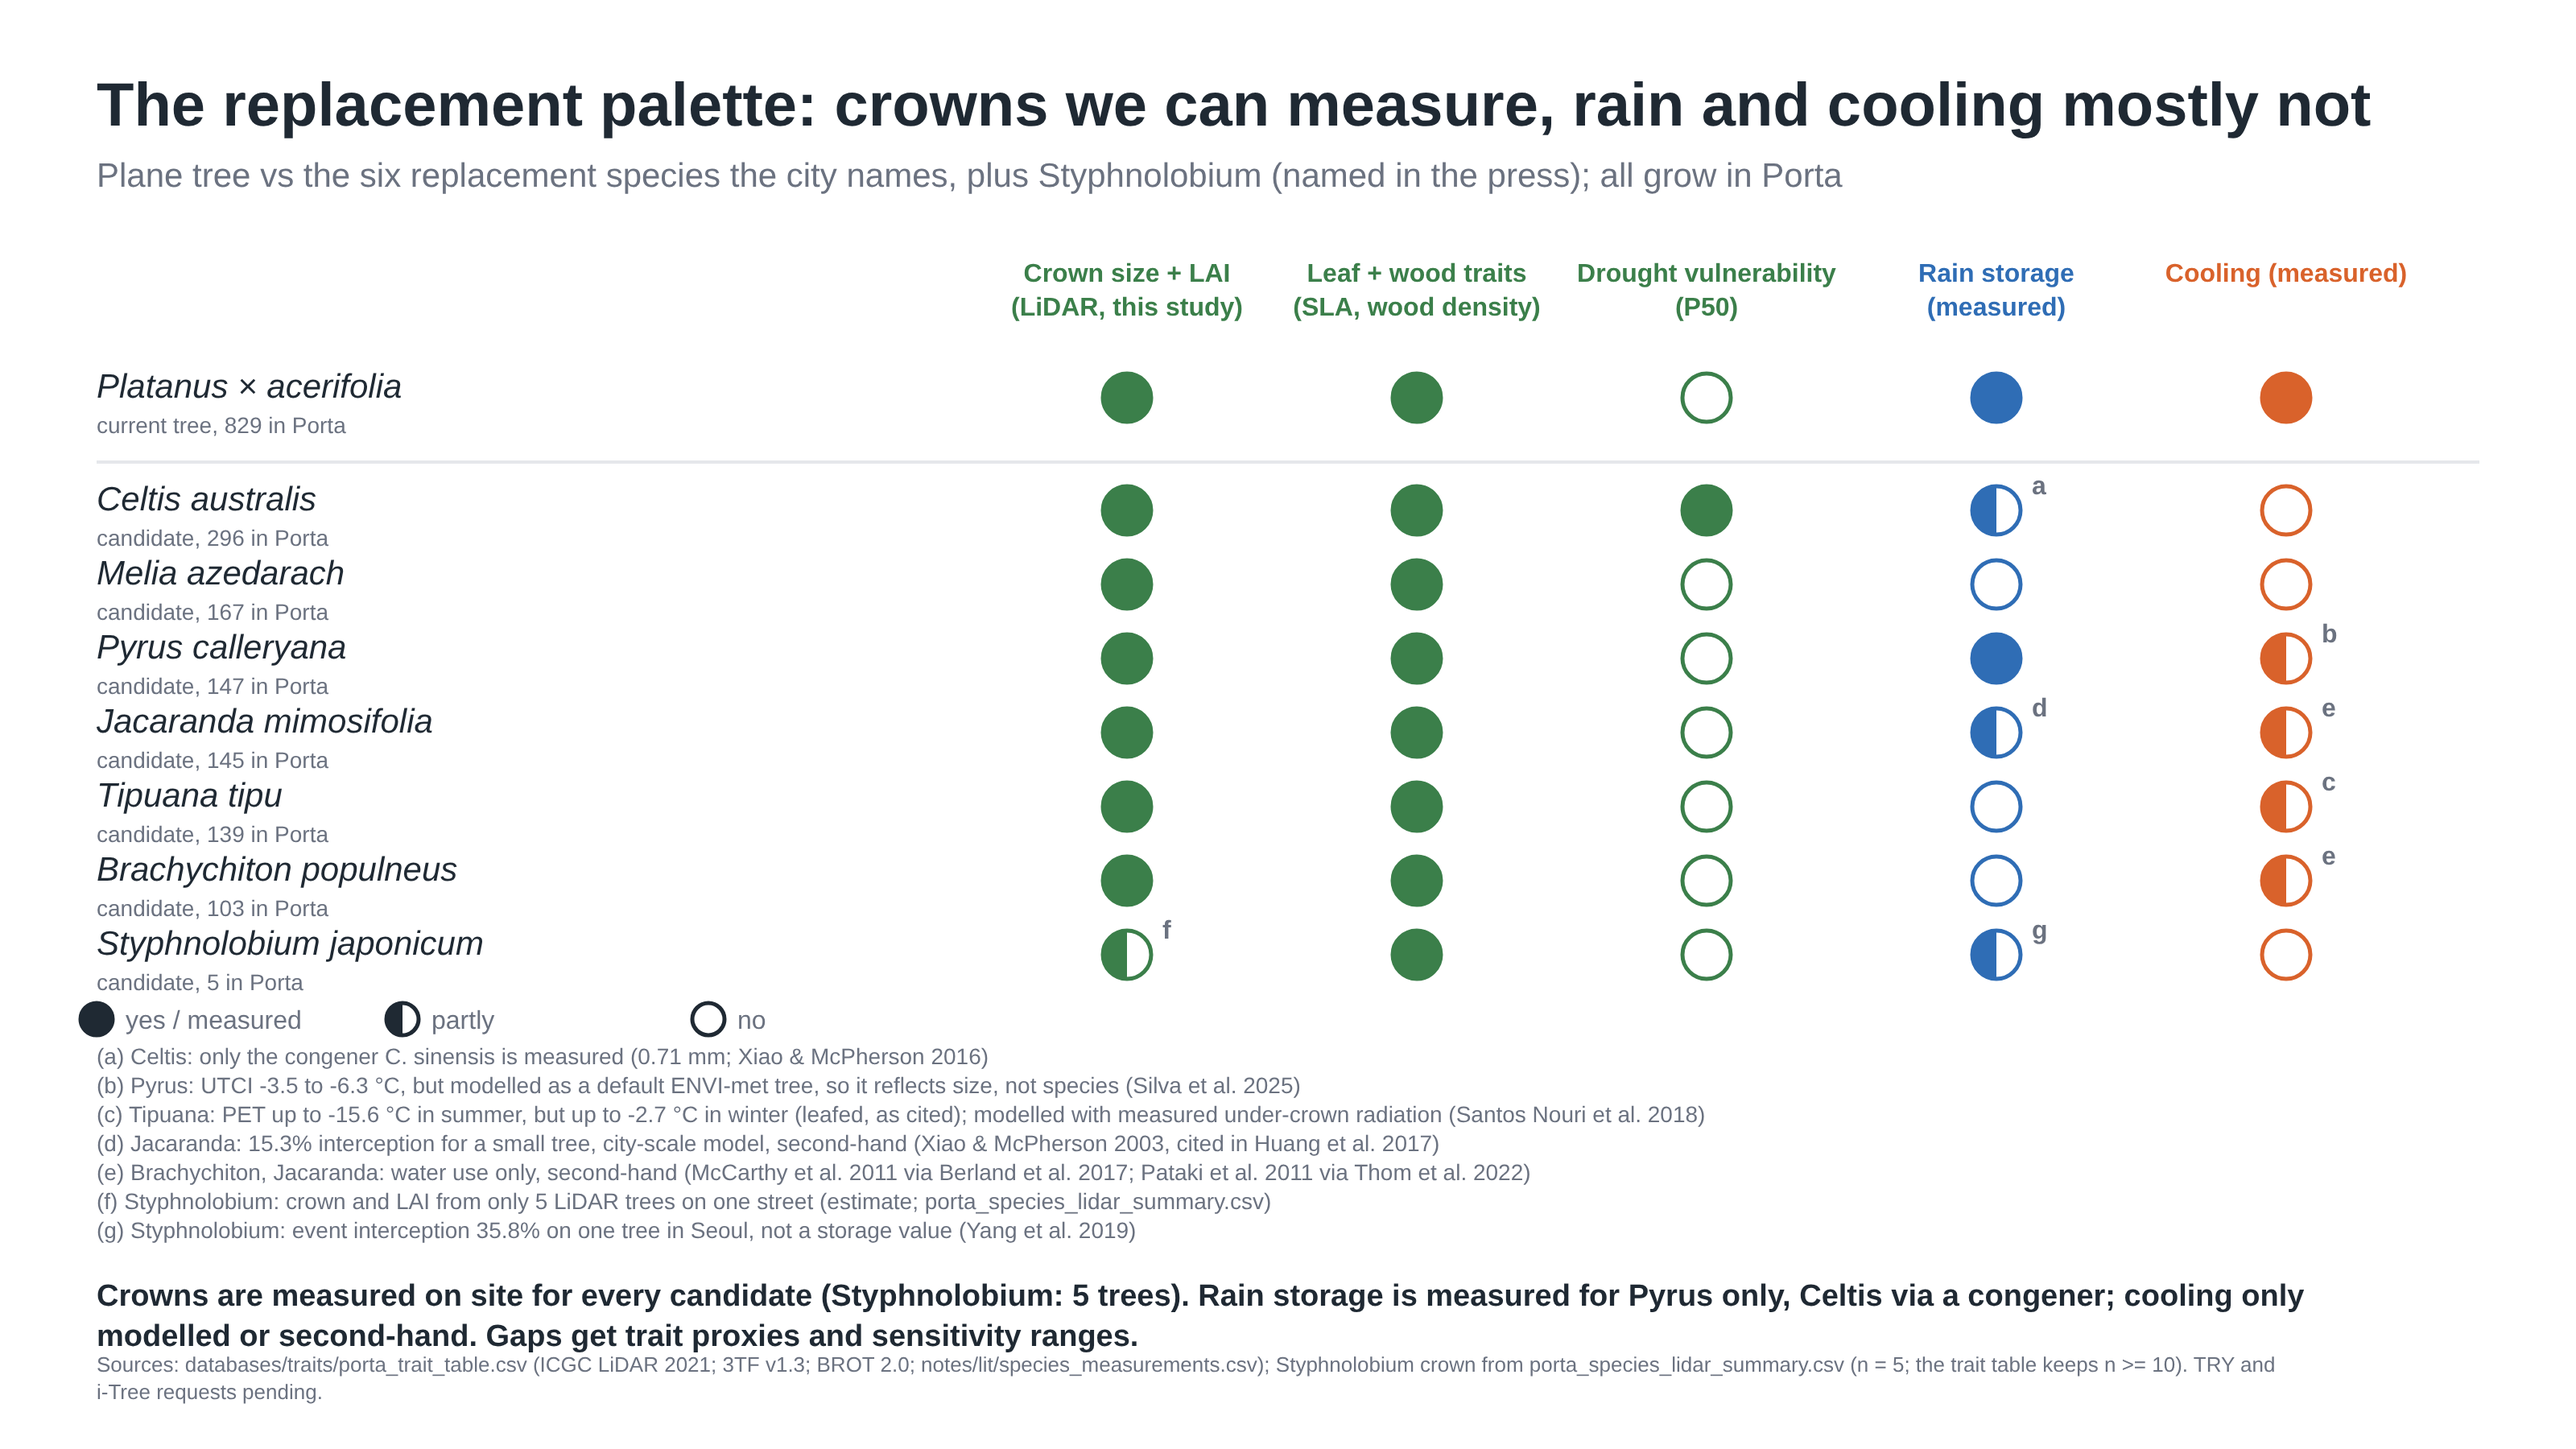
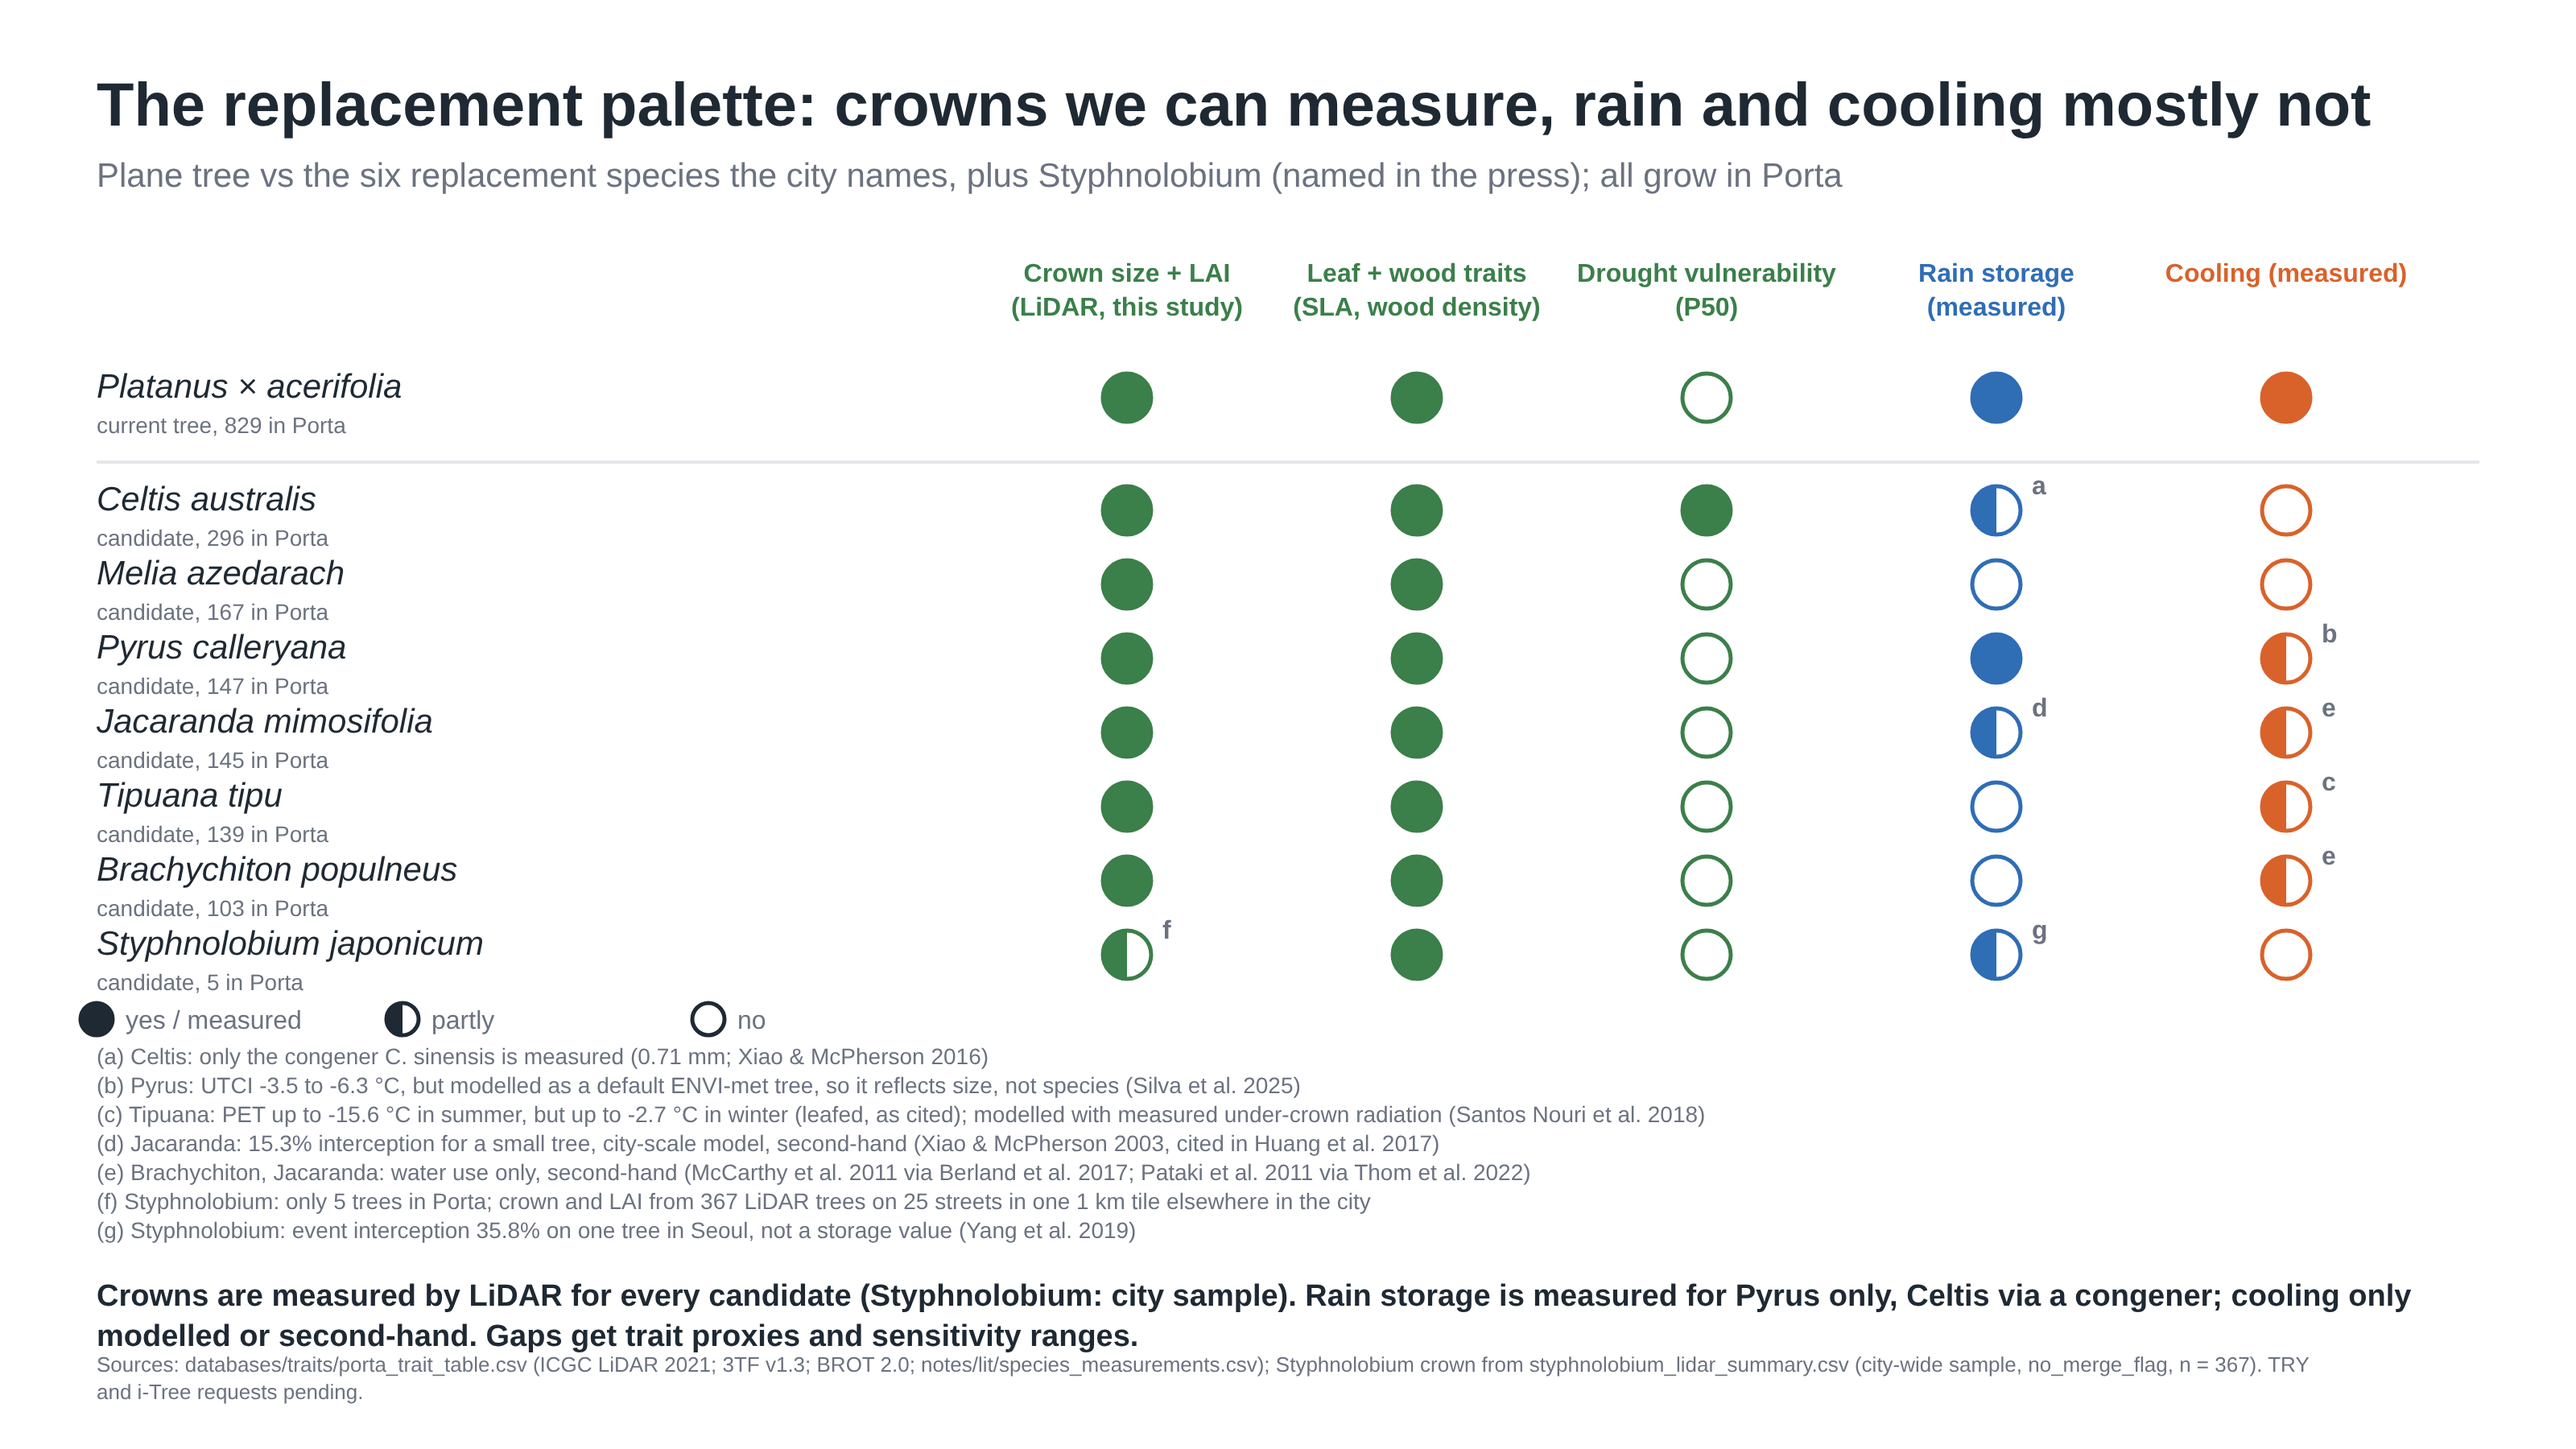
Figure 05: Styphnolobium crown and LAI from the city-wide LiDAR sample (#42)
Claude-Session: https://claude.ai/code/session_01FJALRzK7a9EK18VJAdk96B

diff --git a/scripts/make_infographics.py b/scripts/make_infographics.py
@@ -272,7 +272,7 @@ def fig_palette():
              ("Jacaranda mimosifolia", 3): ("d", "Jacaranda: 15.3% interception for a small tree, city-scale model, second-hand (Xiao & McPherson 2003, cited in Huang et al. 2017)"),
              ("Brachychiton populneus", 4): ("e", "Brachychiton, Jacaranda: water use only, second-hand (McCarthy et al. 2011 via Berland et al. 2017; Pataki et al. 2011 via Thom et al. 2022)"),
              ("Jacaranda mimosifolia", 4): ("e", "Brachychiton, Jacaranda: water use only, second-hand (McCarthy et al. 2011 via Berland et al. 2017; Pataki et al. 2011 via Thom et al. 2022)"),
-             ("Styphnolobium japonicum", 0): ("f", "Styphnolobium: crown and LAI from only 5 LiDAR trees on one street (estimate; porta_species_lidar_summary.csv)"),
+             ("Styphnolobium japonicum", 0): ("f", "Styphnolobium: only 5 trees in Porta; crown and LAI from 367 LiDAR trees on 25 streets in one 1 km tile elsewhere in the city"),
              ("Styphnolobium japonicum", 3): ("g", "Styphnolobium: event interception 35.8% on one tree in Seoul, not a storage value (Yang et al. 2019)")}
     cx = [700, 880, 1060, 1240, 1420]
     b = "".join(para(x, 175, c, 170, 16, weight="bold", anchor="middle", fill=col)[0] for x, (c, col, _) in zip(cx, cols))
@@ -290,12 +290,12 @@ def fig_palette():
         y += 46 if not cur else 70
     b += legend_balls(60, y + 16)
     b += "".join(t(60, y + 44 + 18 * j, f"({k}) {v}", 14, MUTED) for j, (k, v) in enumerate(dict.fromkeys(notes.values())))
-    tk, _ = para(60, y + 68 + 18 * len(set(notes.values())), "Crowns are measured on site for every candidate (Styphnolobium: 5 trees). Rain storage is measured for Pyrus only, "
+    tk, _ = para(60, y + 68 + 18 * len(set(notes.values())), "Crowns are measured by LiDAR for every candidate (Styphnolobium: city sample). Rain storage is measured for Pyrus only, "
                               "Celtis via a congener; cooling only modelled or second-hand. Gaps get trait proxies and sensitivity ranges.", 1480, 19, weight="bold")
     save("05_palette_data_gap", "The replacement palette: crowns we can measure, rain and cooling mostly not",
          "Plane tree vs the six replacement species the city names, plus Styphnolobium (named in the press); all grow in Porta", b + tk,
          "databases/traits/porta_trait_table.csv (ICGC LiDAR 2021; 3TF v1.3; BROT 2.0; notes/lit/species_measurements.csv); "
-         "Styphnolobium crown from porta_species_lidar_summary.csv (n = 5; the trait table keeps n >= 10). "
+         "Styphnolobium crown from styphnolobium_lidar_summary.csv (city-wide sample, no_merge_flag, n = 367). "
          "TRY and i-Tree requests pending.")
 
 
